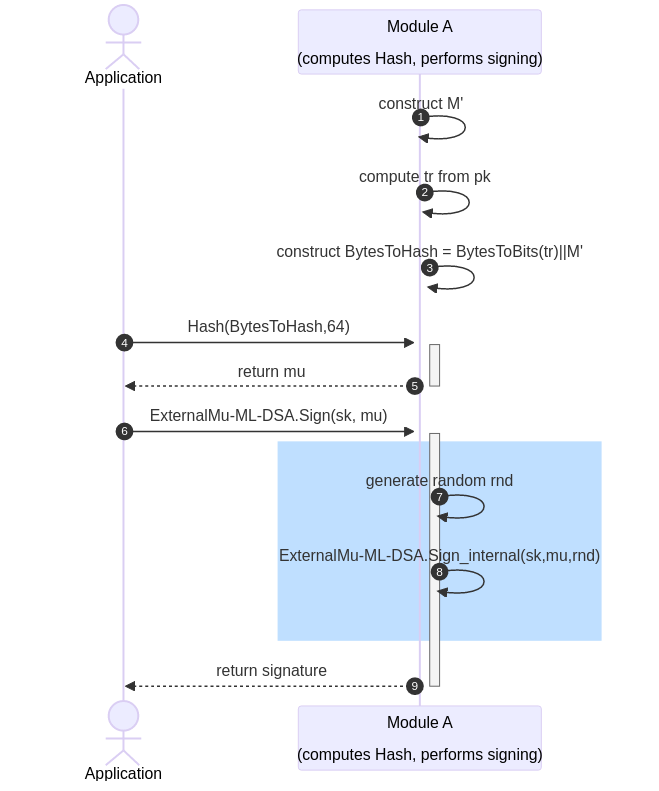
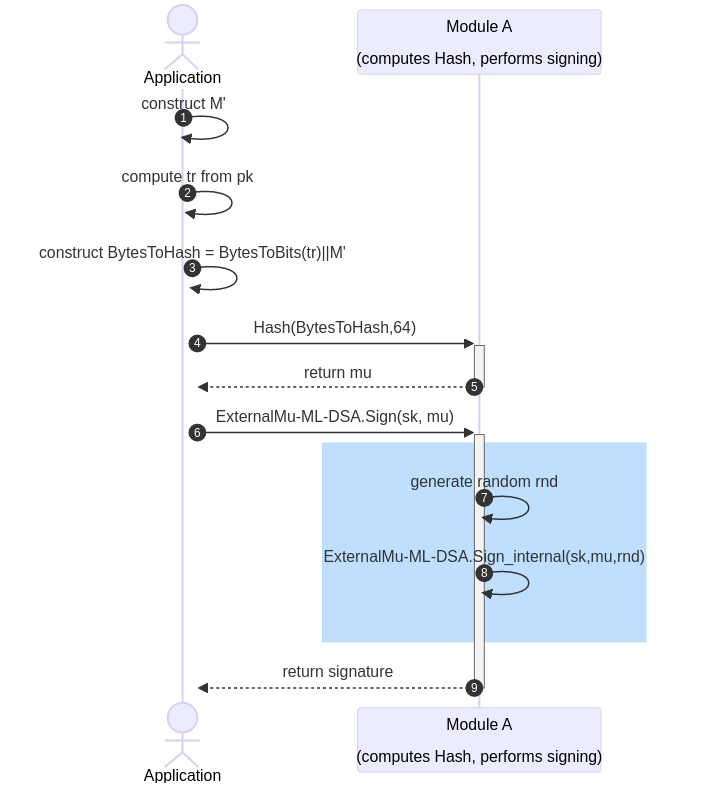
correct diagram

diff --git a/ml-dsa-external-mu.html b/ml-dsa-external-mu.html
@@ -112,9 +112,9 @@ standard Hash usage. There are not two modules - only one.</p>
   actor Application
   participant Module A as Module A&lt;br&gt;&lt;br&gt;(computes Hash, performs signing)
 
-  Module A-&gt;&gt;+Module A: construct M'
-  Module A-&gt;&gt;+Module A: compute tr from pk
-  Module A-&gt;&gt;+Module A: construct BytesToHash = BytesToBits(tr)||M' 
+  Application-&gt;&gt;+Application: construct M'
+  Application-&gt;&gt;+Application: compute tr from pk
+  Application-&gt;&gt;+Application: construct BytesToHash = BytesToBits(tr)||M' 
   Application-&gt;&gt;+Module A: Hash(BytesToHash,64)
   Module A--&gt;&gt;-Application: return mu
   Application-&gt;&gt;+Module A: ExternalMu-ML-DSA.Sign(sk, mu)

diff --git a/ml-dsa-external-mu-edit.md b/ml-dsa-external-mu-edit.md
@@ -147,9 +147,9 @@ sequenceDiagram
   actor Application
   participant Module A as Module A<br><br>(computes Hash, performs signing)
   
-  Module A->>+Module A: construct M'
-  Module A->>+Module A: compute tr from pk
-  Module A->>+Module A: construct BytesToHash = BytesToBits(tr)||M' 
+  Application->>+Application: construct M'
+  Application->>+Application: compute tr from pk
+  Application->>+Application: construct BytesToHash = BytesToBits(tr)||M' 
   Application->>+Module A: Hash(BytesToHash,64)
   Module A-->>-Application: return mu
   Application->>+Module A: ExternalMu-ML-DSA.Sign(sk, mu)

diff --git a/ml-dsa-external-mu.md b/ml-dsa-external-mu.md
@@ -49,3 +49,4 @@ standard Hash usage. There are not two modules - only one.
 
 
 ![diagram](./ml-dsa-external-mu-6.png)
+
